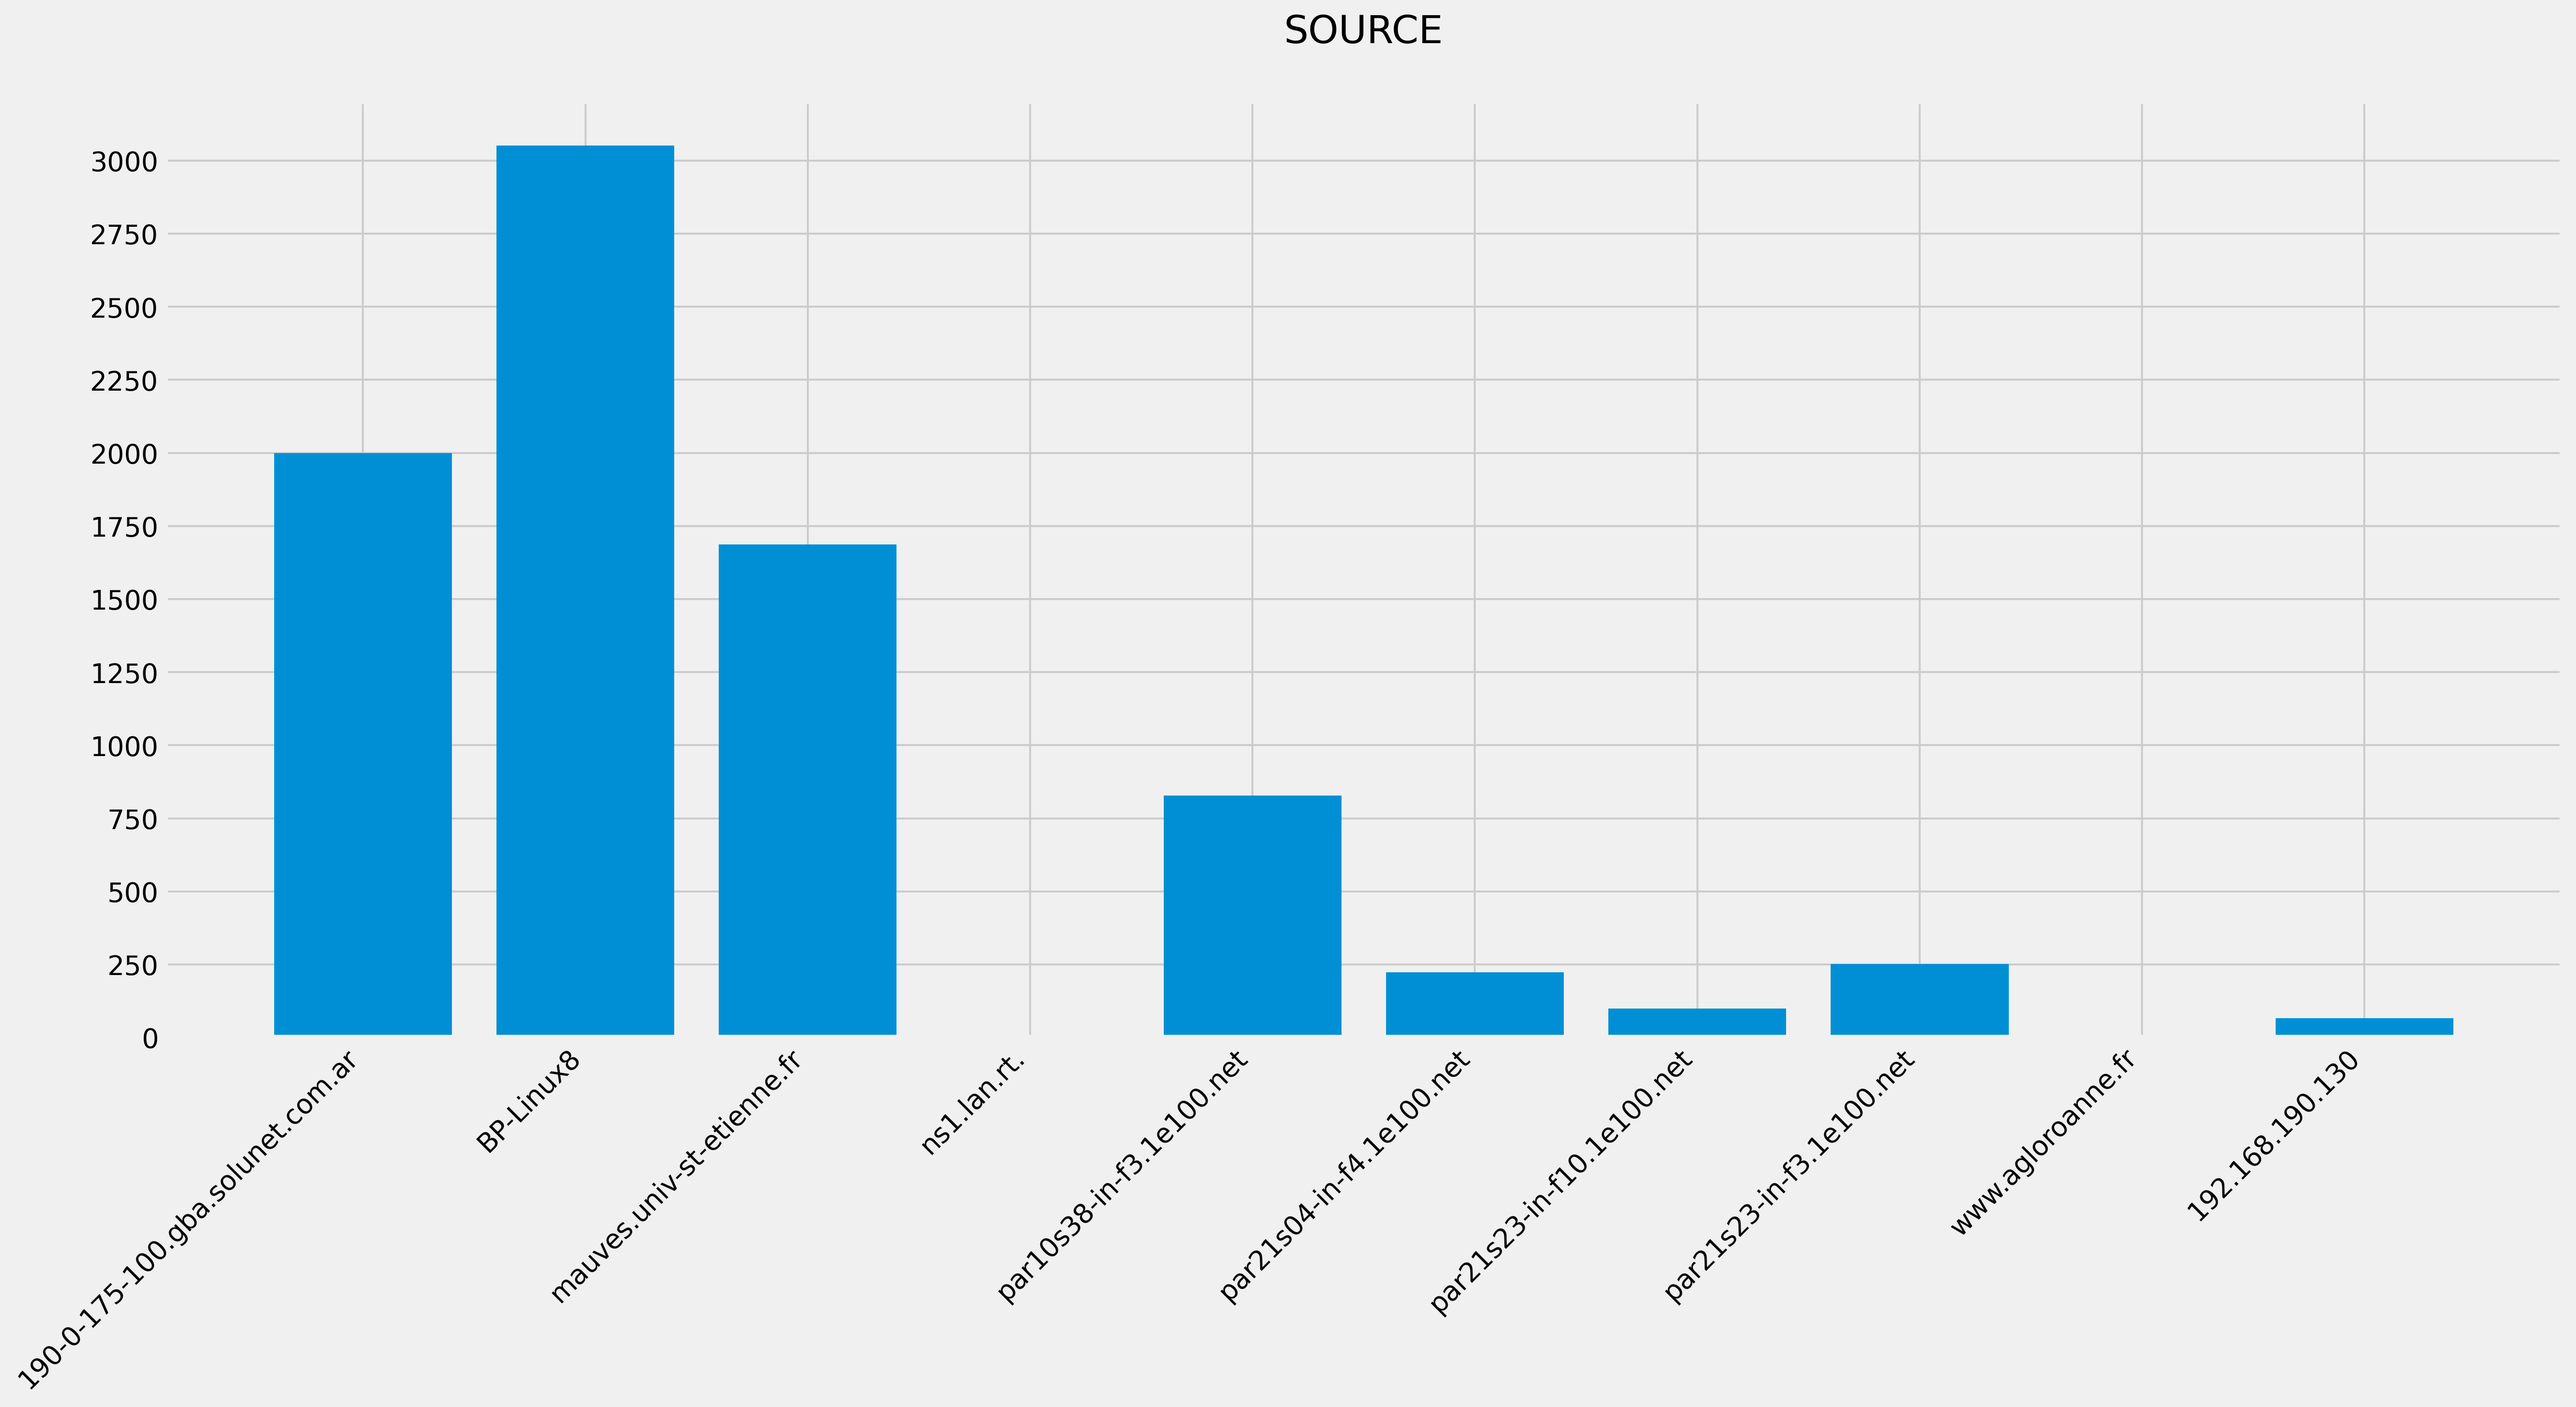
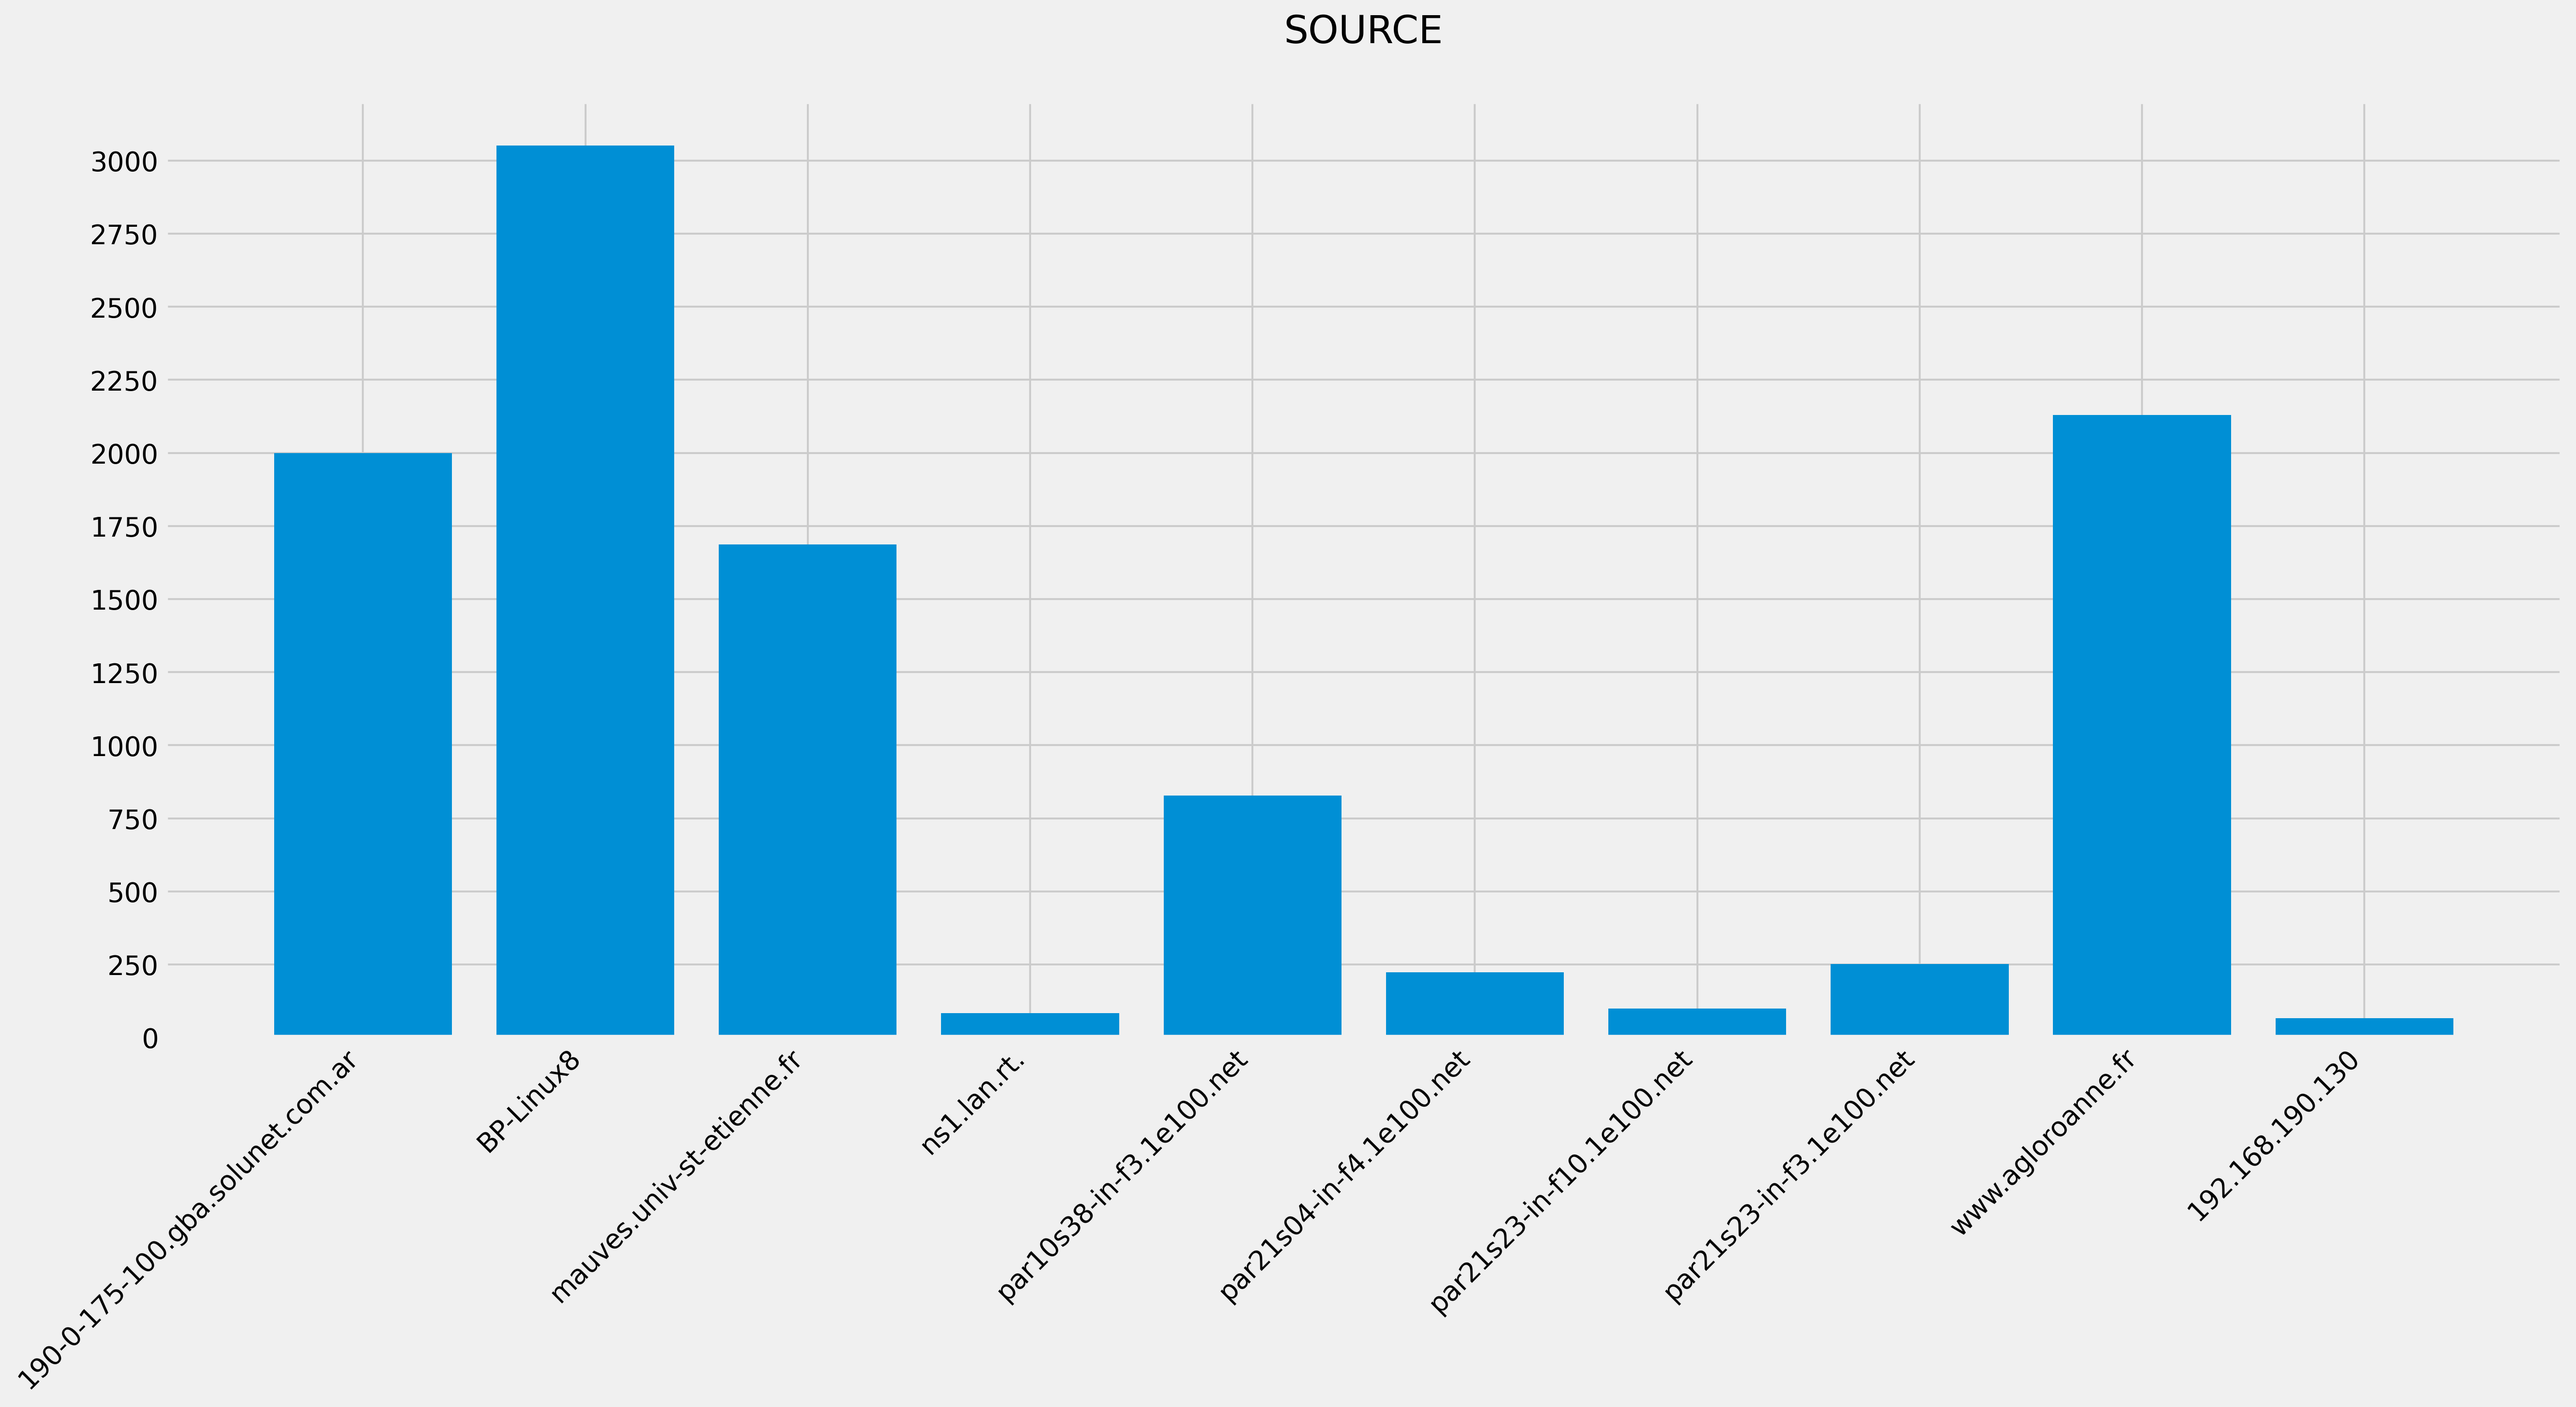
fini

Changed region(s): [[0.78, 0.279, 0.8736, 0.7439], [0.3432, 0.7129, 0.4368, 0.7439]]

diff --git a/temp.py b/temp.py
@@ -167,7 +167,7 @@ for event in ress:
             if nomip=="mauves.univ-st-etienne.fr":
                 c = c + 1
                 
-            if nomip=="ns1.lan.rt.":
+            if nomip=="ns1.lan.rt":
                 d = d + 1
                 
             if nomip=="par10s38-in-f3.1e100.net":
@@ -185,7 +185,7 @@ for event in ress:
             if nomip=="par21s23-in-f3.1e100.net":
                 i = i + 1
                 
-            if nomip=="www.agloroanne.fr":
+            if nomip=="www.aggloroanne.fr":
                 k = k + 1 
            
             if nomip=="192.168.190.130":
@@ -210,7 +210,7 @@ fig.savefig("destinationbar.png", dpi=300, bbox_inches="tight")
 
 
 x=["184.107.43.74","BP-Linux8.34862:","mauves.univ-st-etienne.fr","BP-Linux8.40678:","BP-Linux8.40682:","www.agloroanne.fr","BP-Linux8.53324:","BP-Linux8.53325:","BP-Linux8.53328:","BP-Linux8.53329:", "192.168.190.130"]
-y = [2000,827,251,383,400,1022,499,385,352,324,6]
+y = [2000,827,251,383,400,1022,499,385,352,324,66]
 fig, ax = plt.subplots(figsize=(20, 10))
 
 ax.set_yticks(np.arange(0, 4000, 250))
@@ -221,7 +221,6 @@ ax.bar(x, y)
 
                                                               
 fig.savefig("sourcebar.png", dpi=300, bbox_inches="tight")
-
 
 
 #Pour fermer les fichier
